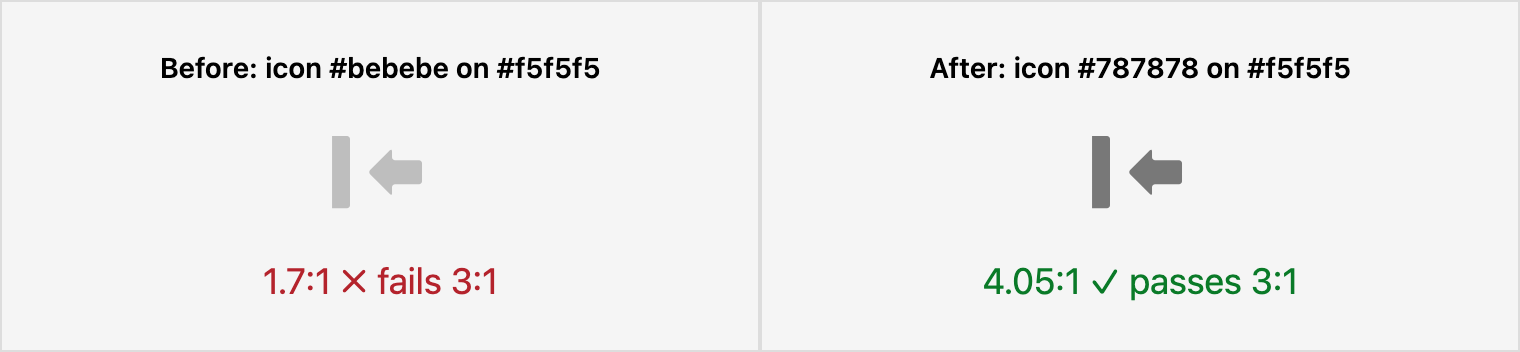
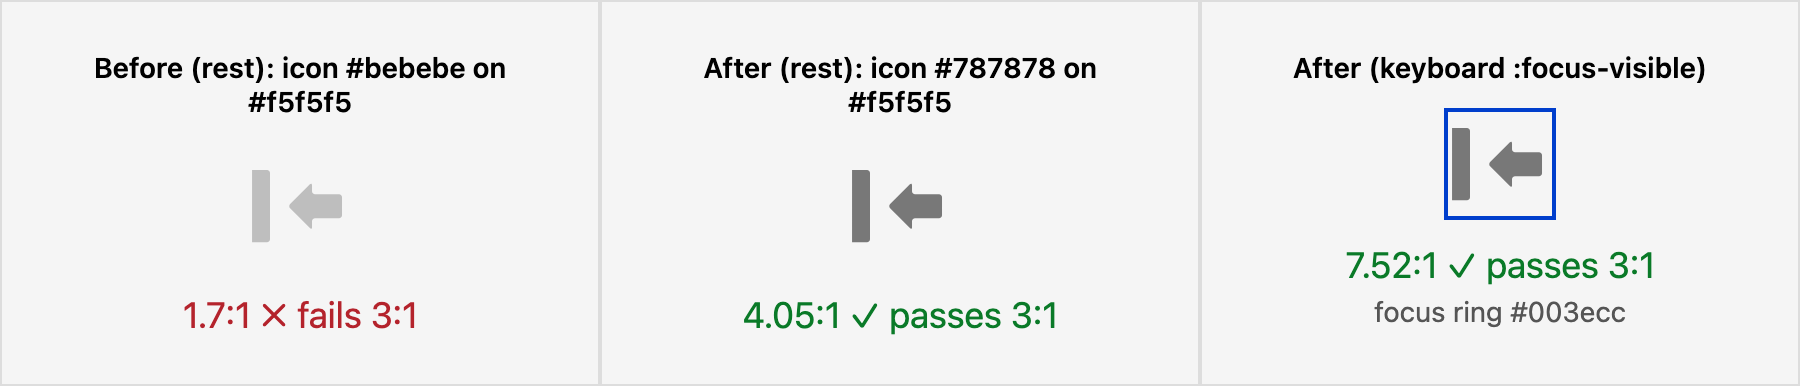
#3273806: add :focus-visible indicator so keyboard focus stays visible
Review catch: matching the rest-state icon colour to the focus colour removed
the only focus cue, because the toggle button's outline is suppressed
(.toolbar-lining button:focus { outline: none }). So the revised fix also adds
a :focus-visible outline to the orientation toggle, alongside the 1.4.11
contrast fix.

- Regenerated branches/3273806-orientation-icon-contrast.patch: now also adds
  a :focus-visible outline on .toolbar-toggle-orientation button in all three
  theme copies (source + compiled). Uses --admin-color-focus with a #003ecc
  fallback (7.52:1 on #f5f5f5).
- proof/ + tools/playwright/proof-3273806.mjs: third panel shows the focus ring.
  Before rest 1.7:1 (fail) / After rest 4.05:1 (pass) / focus ring 7.52:1 (pass).
- SUMMARY.md, EVIDENCE.md updated (states + focus indicator).

DRAFT; not posted upstream.

AI-assisted: yes
Tool used: GitHub Copilot (Claude Opus 4.8)
External code copied: no
External sources consulted: drupal.org Toolbar issue 3273806; default_admin/claro focus tokens
Copyright concern: none known

diff --git a/reports/issues/3273806/EVIDENCE.md b/reports/issues/3273806/EVIDENCE.md
@@ -15,21 +15,22 @@ The orientation toggle icon on the toolbar background (`#f5f5f5`), rest state:
 
 Proof: `proof/contrast-before-after.png`, data in `proof/contrast.json`. Matches the reporter's measured 1.7:1. Regenerate: `node tools/playwright/proof-3273806.mjs`.
 
-## States (rest vs hover/focus)
+## States, and the focus indicator
 
-Hover and focus **already used `#787878`** before this fix, and the toggle has **no background-color change** in any state (hover/focus only swap the icon image), so all states contrast against the same `#f5f5f5` surface:
+The rest-state icon was the contrast failure. Fixing it to `#787878` matches the colour hover/focus already used — which would have removed the **only** focus cue (the icon darkening), because the toggle button's outline is suppressed (`.toolbar-lining button:focus { outline: none }`). So the fix **also adds a `:focus-visible` outline** to the toggle, keeping keyboard focus clearly visible (WCAG 2.4.7).
 
 | State | Before | After |
 |-------|--------|-------|
-| Rest  | `#bebebe` → 1.7:1 ✗ | `#787878` → 4.05:1 ✓ |
-| Hover | `#787878` → 4.05:1 ✓ (already) | `#787878` → 4.05:1 ✓ (unchanged) |
-| Focus | `#787878` → 4.05:1 ✓ (already) | `#787878` → 4.05:1 ✓ (unchanged) |
+| Rest | icon `#bebebe` → 1.7:1 ✗ | icon `#787878` → 4.05:1 ✓ |
+| Hover | icon `#787878` → 4.05:1 ✓ | icon `#787878` → 4.05:1 ✓ (unchanged) |
+| Keyboard focus | icon darkens `#bebebe`→`#787878` (subtle; outline suppressed) | icon `#787878` + **`:focus-visible` outline → 7.52:1** ✓ |
 
-The fix brings the rest state up to the colour hover/focus already used; nothing regresses. The rendered proof covers the rest state (the only state that changes); the DDEV step below will confirm all three states live, in both orientations.
+The focus ring uses `--admin-color-focus` where available (light/dark-aware under Default Admin) with a high-contrast `#003ecc` fallback (7.52:1 on `#f5f5f5`). The rendered proof shows all three panels.
 
 ## Scope of the change
-- Only the orientation toggle's **rest-state** push icons (`push-left`/`push-right`/`push-up`) change; hover/focus already used `#787878`.
-- 6 files, 18 lines (3 icons × {base, claro, default_admin} × {source `.pcss.css`, compiled `.css`}).
+- The orientation toggle's **rest-state** push icons (`push-left`/`push-right`/`push-up`) change `#bebebe` → `#787878`; hover/focus icon rules unchanged (already `#787878`).
+- A `:focus-visible` outline is added to `.toolbar-toggle-orientation button` so keyboard focus is visible after the rest/focus colours converge.
+- Across base + claro + default_admin theme copies, source `.pcss.css` and compiled `.css`.
 - The darker icon assets already exist in the module (`icons/787878/push-*.svg`), so no new assets.
 
 ## Not yet verified

diff --git a/reports/issues/3273806/SUMMARY.md b/reports/issues/3273806/SUMMARY.md
@@ -13,7 +13,7 @@ Swap the orientation toggle's **rest-state** push icons (`push-left`/`push-right
 - `css/claro/theme/toolbar.icons.theme.pcss.css` + `.css`
 - `css/default_admin/theme/toolbar.icons.theme.pcss.css` + `.css`
 
-Hover/focus already used `#787878` (unchanged). No other icons touched. 6 files, 18 lines.
+Hover/focus already used `#787878`. Because the toggle button's outline is suppressed (`.toolbar-lining button:focus { outline: none }`) and the icon darkening was the only focus cue, the fix **also adds a `:focus-visible` outline** to the toggle so keyboard focus stays visible (WCAG 2.4.7) instead of regressing. No other icons touched.
 
 Patch: [`branches/3273806-orientation-icon-contrast.patch`](branches/3273806-orientation-icon-contrast.patch) (see [BRANCHES.md](BRANCHES.md)).
 
